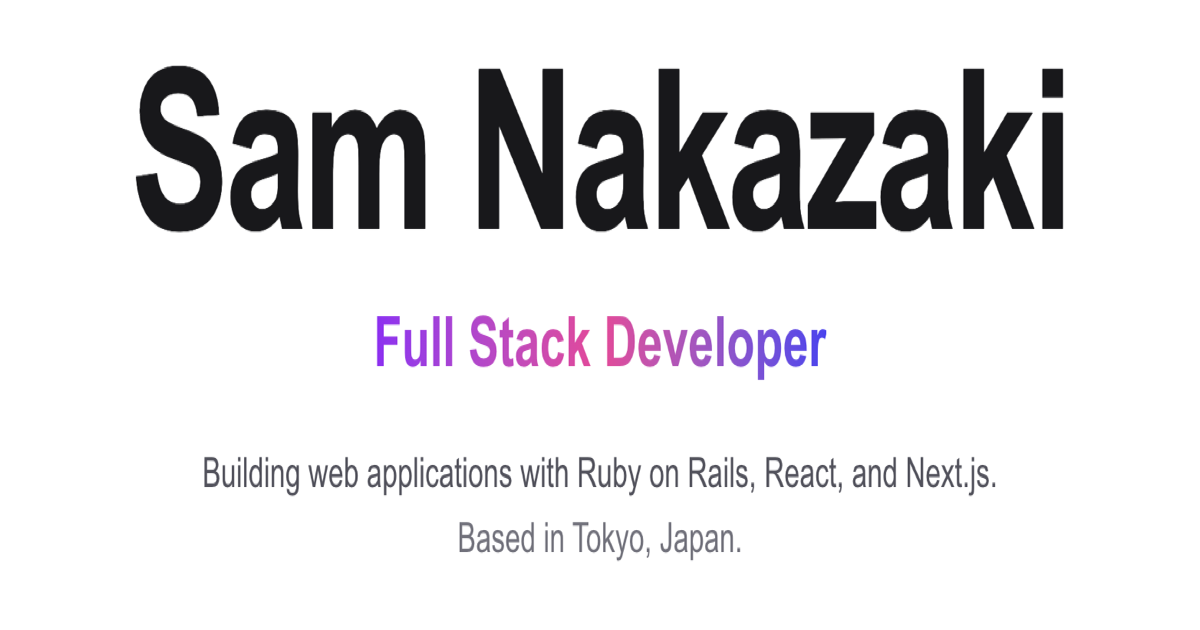
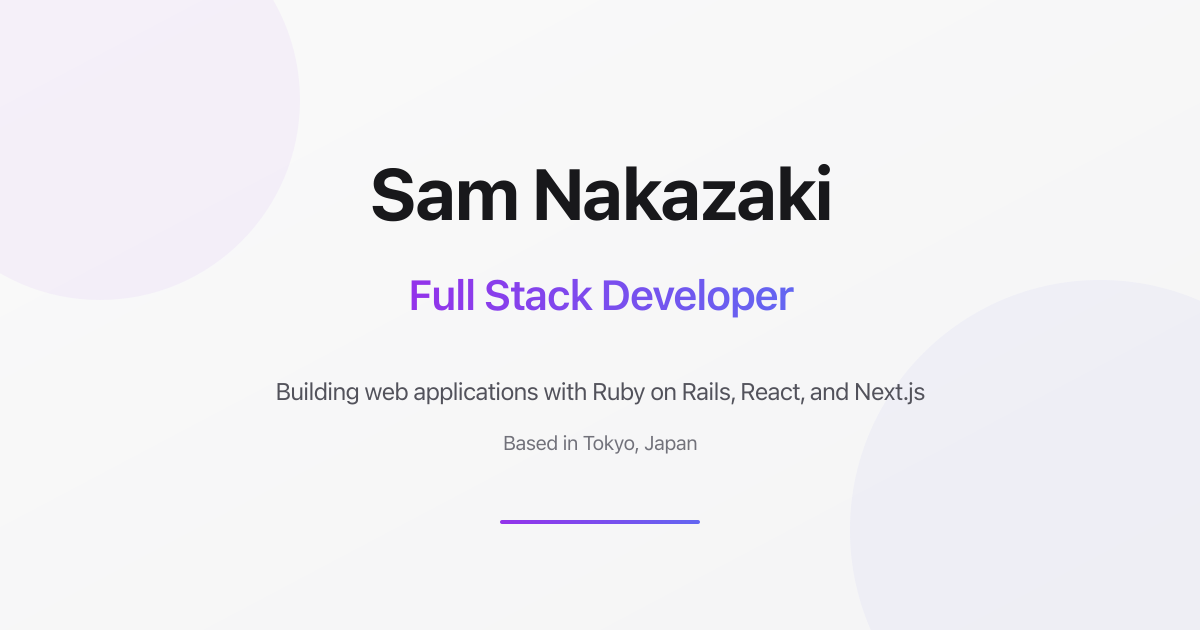
fixed images

diff --git a/scripts/generate-og.js b/scripts/generate-og.js
@@ -1,0 +1,75 @@
+const sharp = require('sharp');
+const path = require('path');
+
+async function generateOGImage(text, subtitle, description, location, outputPath) {
+  const width = 1200;
+  const height = 630;
+
+  // Create SVG with the content
+  const svg = `
+    <svg width="${width}" height="${height}" xmlns="http://www.w3.org/2000/svg">
+      <defs>
+        <linearGradient id="bgGradient" x1="0%" y1="0%" x2="100%" y2="100%">
+          <stop offset="0%" style="stop-color:#fafafa;stop-opacity:1" />
+          <stop offset="100%" style="stop-color:#f4f4f5;stop-opacity:1" />
+        </linearGradient>
+        <linearGradient id="purpleGradient" x1="0%" y1="0%" x2="100%" y2="0%">
+          <stop offset="0%" style="stop-color:#9333ea;stop-opacity:1" />
+          <stop offset="100%" style="stop-color:#6366f1;stop-opacity:1" />
+        </linearGradient>
+      </defs>
+
+      <!-- Background -->
+      <rect width="${width}" height="${height}" fill="url(#bgGradient)"/>
+
+      <!-- Decorative circles -->
+      <circle cx="100" cy="100" r="200" fill="#9333ea" opacity="0.05"/>
+      <circle cx="1100" cy="530" r="250" fill="#6366f1" opacity="0.05"/>
+
+      <!-- Main title -->
+      <text x="${width/2}" y="220" font-family="system-ui, -apple-system, sans-serif" font-size="72" font-weight="bold" fill="#18181b" text-anchor="middle">${text}</text>
+
+      <!-- Subtitle with gradient effect -->
+      <text x="${width/2}" y="310" font-family="system-ui, -apple-system, sans-serif" font-size="42" font-weight="600" fill="url(#purpleGradient)" text-anchor="middle">${subtitle}</text>
+
+      <!-- Description -->
+      <text x="${width/2}" y="400" font-family="system-ui, -apple-system, sans-serif" font-size="24" fill="#52525b" text-anchor="middle">${description}</text>
+
+      <!-- Location -->
+      <text x="${width/2}" y="450" font-family="system-ui, -apple-system, sans-serif" font-size="20" fill="#71717a" text-anchor="middle">${location}</text>
+
+      <!-- Bottom accent line -->
+      <rect x="500" y="520" width="200" height="4" rx="2" fill="url(#purpleGradient)"/>
+    </svg>
+  `;
+
+  await sharp(Buffer.from(svg))
+    .png()
+    .toFile(outputPath);
+
+  console.log(`Generated: ${outputPath}`);
+}
+
+async function main() {
+  const publicDir = path.join(__dirname, '..', 'public');
+
+  // English version
+  await generateOGImage(
+    'Sam Nakazaki',
+    'Full Stack Developer',
+    'Building web applications with Ruby on Rails, React, and Next.js',
+    'Based in Tokyo, Japan',
+    path.join(publicDir, 'og-en.png')
+  );
+
+  // Japanese version
+  await generateOGImage(
+    '中崎サム',
+    'フルスタックデベロッパー',
+    'Ruby on Rails、React、Next.jsでWebアプリを開発',
+    '東京在住',
+    path.join(publicDir, 'og-ja.png')
+  );
+}
+
+main().catch(console.error);
